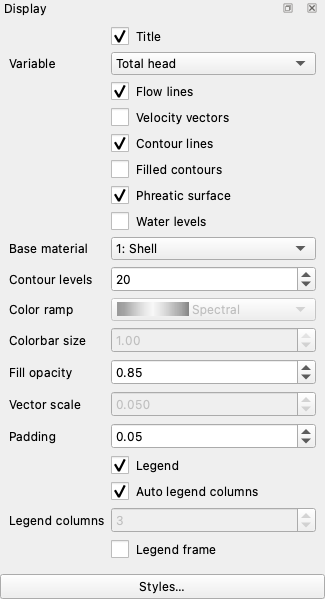
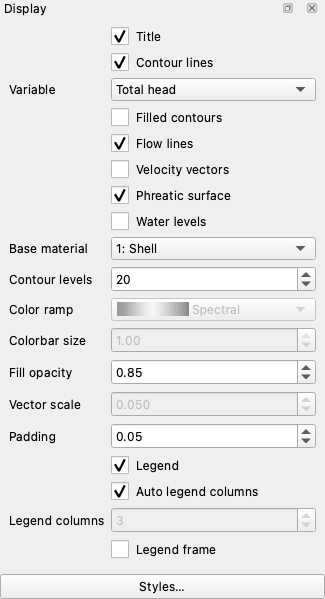
Seepage Display panel order (Norm): Contour lines sits just above Variable, the thing it contours, and Filled contours just below it; then Flow lines, Velocity vectors, Phreatic surface, Water levels. Panel image recaptured
Claude-Session: https://claude.ai/code/session_01XjjT2aBxw8gY7EFdpoUcpj

Changed region(s): [[0.3385, 0.0601, 0.9846, 0.3005], [0.0308, 0.0902, 0.1846, 0.1803]]

diff --git a/studio/display_panels.py b/studio/display_panels.py
@@ -449,15 +449,16 @@ class SeepDisplayPanel(QWidget):
             "waterline + apex-down symbol. On a transient frame the reservoir pool "
             "drops with the schedule; on a steady solution it is the constant level.")
 
+        # The contour toggles sit around the Variable they contour: lines above it,
+        # fill below it (Norm). Flow lines + base material are flow-net-only, so a
+        # transient view omits them (hidden, not just disabled — they cannot apply).
+        # Vectors stay: they read a transient frame's instantaneous flow direction.
+        form.addRow("", self.contour_lines)
         form.addRow("Variable", self.variable)
-        # Flow lines + base material are flow-net-only, so a transient view omits them
-        # (hidden, not just disabled — they cannot apply). Vectors stay: they read a
-        # transient frame's instantaneous flow direction.
+        form.addRow("", self.fill)
         if not self._transient:
             form.addRow("", self.flowlines)
         form.addRow("", self.vectors)
-        form.addRow("", self.contour_lines)
-        form.addRow("", self.fill)
         form.addRow("", self.phreatic)
         form.addRow("", self.bc_levels)
         if not self._transient:
